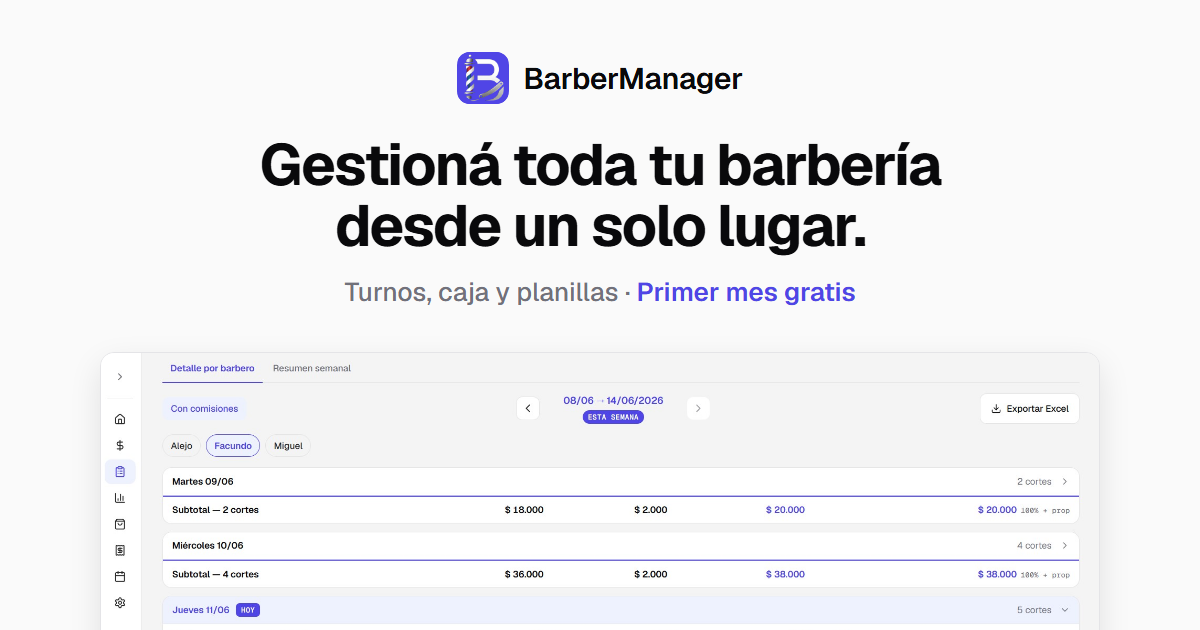
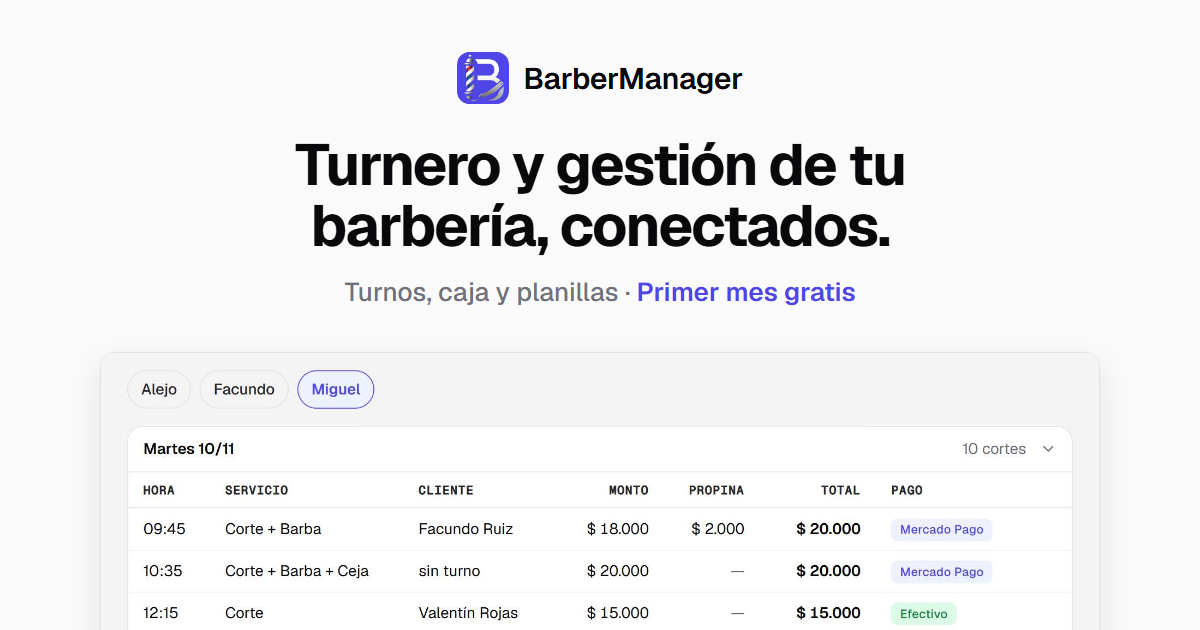
feat: capturas reales y "Probá reservar" en la landing (fase 2)
Fase 2 del plan docs/plan_landing_captacion.md.

- Hero: en celular (< 768 px) se muestra un recorte de la planilla de un
  barbero (hora, servicio, cliente y monto) que se lee a 375 px. Va con
  <picture> y <source>, así el navegador baja una sola imagen. En escritorio
  sigue la planilla completa, con la captura nueva. ScreenshotFrame suma las
  props imageMobile y loading.
- Turnero: botón "Probá reservar en una barbería de ejemplo", que abre el
  turnero de demo con ?origen=landing (queda en turno.origen_link para contar
  las reservas que salen de la landing). DEMO.turnero vive en config/landing.js
  y también va en el llms.txt.
- Sistema de gestión: la captura real del Balance del mes, con datos de prueba
  del tenant demo, reemplaza a las tres métricas con números inventados. Se
  borra MetricCard.
- Capturas de la fase 0, sacadas del panel de demo a densidad 2: planilla de
  escritorio, recorte para celular y balance.
- og-image regenerada con la captura nueva y el titular corto ("Turnero y
  gestión de tu barbería, conectados.").

Lighthouse en celular: el LCP baja de 3,5 s (producción) a 1,6 s. El CLS de
0,058 viene del titular de la fase 1 y está anotado en el plan (§8).

diff --git a/frontend-landing/src/components/landing/ScreenshotFrame.jsx b/frontend-landing/src/components/landing/ScreenshotFrame.jsx
@@ -80,6 +80,57 @@ function Placeholder({ label }) {
   );
 }
 
+// Corte celular/escritorio, el mismo de las clases om- de index.css (768 px).
+// Va en el atributo media del <source>: lo resuelve el navegador, no el render.
+const MEDIA_CELULAR = '(max-width: 767px)';
+
+/**
+ * Captura
+ * La imagen de la captura. Con imageMobile arma un <picture>: el navegador
+ * elige la versión según el ancho y baja una sola. Sin imageMobile, un <img>.
+ * @param {string} props.image - URL de la captura de escritorio
+ * @param {number} [props.width] - Ancho real del archivo de escritorio en px
+ * @param {number} [props.height] - Alto real del archivo de escritorio en px
+ * @param {{src: string, width: number, height: number}} [props.imageMobile] -
+ *   Versión para celular (< 768 px), con sus medidas reales
+ * @param {boolean} props.priority - Descarga con prioridad alta (fetchpriority)
+ * @param {'lazy'|'eager'} [props.loading] - Carga diferida nativa del <img>
+ * @param {string} props.alt - Texto alternativo (vale para las dos versiones)
+ * @returns {JSX.Element}
+ */
+function Captura({ image, width, height, imageMobile, priority, loading, alt }) {
+  // height: 'auto' es obligatorio: con el atributo height solo, la imagen
+  // quedaría con alto fijo. Así el navegador usa width/height como
+  // proporción y reserva el lugar justo.
+  const img = (
+    <img
+      src={image}
+      alt={alt}
+      width={width}
+      height={height}
+      fetchPriority={priority ? 'high' : undefined}
+      loading={loading}
+      style={{ display: 'block', width: '100%', height: 'auto' }}
+    />
+  );
+  if (!imageMobile) return img;
+
+  // El width/height del <source> reserva la proporción de la versión celular
+  // (sin ellos, el lugar se reservaría con la proporción de la de escritorio y
+  // saltaría al cargar). El fetchpriority del <img> vale para la que se elija.
+  return (
+    <picture>
+      <source
+        media={MEDIA_CELULAR}
+        srcSet={imageMobile.src}
+        width={imageMobile.width}
+        height={imageMobile.height}
+      />
+      {img}
+    </picture>
+  );
+}
+
 /**
  * ScreenshotFrame
  * Marco que contiene una captura del producto (o un placeholder).
@@ -87,8 +138,12 @@ function Placeholder({ label }) {
  * @param {number} [props.width] - Ancho real del archivo en px. Junto con height,
  *   el navegador reserva el espacio antes de que cargue (sin salto de contenido)
  * @param {number} [props.height] - Alto real del archivo en px
+ * @param {{src: string, width: number, height: number}} [props.imageMobile] -
+ *   Versión para celular (< 768 px). Si viene, se baja solo la que corresponde
  * @param {boolean} [props.priority=false] - Imagen principal de la página (Hero):
  *   se descarga con prioridad alta. Solo una por página
+ * @param {'lazy'|'eager'} [props.loading] - 'lazy' para capturas lejos del
+ *   primer pantallazo: no se bajan hasta que el usuario se acerca
  * @param {string} [props.alt=''] - Texto alternativo de la imagen
  * @param {ReactNode} [props.children] - Contenido alternativo si no hay image
  * @param {boolean} [props.chrome=false] - Muestra la barra tipo navegador
@@ -101,7 +156,9 @@ function ScreenshotFrame({
   image,
   width,
   height,
+  imageMobile,
   priority = false,
+  loading,
   alt = '',
   children,
   chrome = false,
@@ -122,16 +179,14 @@ function ScreenshotFrame({
     >
       {chrome && <ChromeBar label={label} />}
       {image ? (
-        // height: 'auto' es obligatorio: con el atributo height solo, la imagen
-        // quedaría con alto fijo. Así el navegador usa width/height como
-        // proporción y reserva el lugar justo.
-        <img
-          src={image}
-          alt={alt}
+        <Captura
+          image={image}
           width={width}
           height={height}
-          fetchPriority={priority ? 'high' : undefined}
-          style={{ display: 'block', width: '100%', height: 'auto' }}
+          imageMobile={imageMobile}
+          priority={priority}
+          loading={loading}
+          alt={alt}
         />
       ) : (
         children ?? <Placeholder label={placeholderLabel} />

diff --git a/frontend-landing/src/components/sections/SistemaGestion.jsx b/frontend-landing/src/components/sections/SistemaGestion.jsx
@@ -1,20 +1,19 @@
 // /frontend-landing/src/components/sections/SistemaGestion.jsx
 // Sección más importante: el panel de gestión del dueño. Video protagonista
 // arriba + las 10 funcionalidades agrupadas en 3 bloques (para que se lea
-// ordenado y no como una lista plana) + las métricas del mes (fusionadas desde
-// la antigua sección "Métricas"), para cerrar con el payoff: no solo ordenás el
-// día, también ves si estás creciendo.
+// ordenado y no como una lista plana) + la captura real del Balance del mes,
+// para cerrar con el payoff: no solo ordenás el día, también ves si estás
+// creciendo.
 
 import { ClipboardList, Store, BarChart3 } from 'lucide-react';
 import { theme } from '../../theme/tokens.js';
-import { VIDEOS } from '../../config/landing.js';
-import { fmtPesos } from '../../utils/formato.js';
+import { VIDEOS, CAPTURAS } from '../../config/landing.js';
 import Section from '../landing/Section.jsx';
 import Reveal from '../landing/Reveal.jsx';
 import Card from '../ui/Card.jsx';
 import FeatureList from '../landing/FeatureList.jsx';
 import VideoEmbed from '../landing/VideoEmbed.jsx';
-import MetricCard from '../landing/MetricCard.jsx';
+import ScreenshotFrame from '../landing/ScreenshotFrame.jsx';
 import NotaAlPie from '../landing/NotaAlPie.jsx';
 
 // Las 10 funcionalidades agrupadas en 3 bloques temáticos.
@@ -34,14 +33,6 @@ const GRUPOS = [
     titulo: 'Resultados',
     items: ['Planillas semanales', 'Planillas mensuales'],
   },
-];
-
-// Métricas del mes (fusionadas desde la antigua sección "Métricas"). Datos
-// ilustrativos: muestran la funcionalidad, no son de un tenant real.
-const METRICAS = [
-  { label: 'Ingresos del mes', value: fmtPesos(842000), delta: '+18%', deltaLabel: 'vs. el mes anterior', data: [42, 50, 47, 58, 70, 86] },
-  { label: 'Clientes atendidos', value: '318', delta: '+12%', deltaLabel: 'vs. el mes anterior', data: [60, 64, 62, 70, 78, 84] },
-  { label: 'Crecimiento', value: '+31%', deltaLabel: 'en los últimos 3 meses', data: [48, 55, 58, 66, 75, 88] },
 ];
 
 /**
@@ -126,7 +117,7 @@ function SistemaGestion() {
         ))}
       </div>
 
-      {/* Cierre con el payoff: las métricas del mes. No es una sección aparte
+      {/* Cierre con el payoff: el balance del mes. No es una sección aparte
           (fusionada acá) para no alargar la página. */}
       <Reveal
         style={{
@@ -165,19 +156,21 @@ function SistemaGestion() {
         </p>
       </Reveal>
 
-      <div style={{ display: 'flex', flexWrap: 'wrap', gap: 16, justifyContent: 'center' }}>
-        {METRICAS.map((m, i) => (
-          <Reveal
-            key={m.label}
-            delay={i * 80}
-            style={{ flex: '1 1 240px', maxWidth: 340, display: 'flex' }}
-          >
-            <MetricCard {...m} />
-          </Reveal>
-        ))}
-      </div>
+      {/* Captura real del Balance (tenant demo). Mismo ancho que el video de
+          arriba. Lazy: está lejos del primer pantallazo y no compite con la
+          imagen del Hero. */}
+      <Reveal style={{ maxWidth: 920, marginInline: 'auto' }}>
+        <ScreenshotFrame
+          image={CAPTURAS.balance?.src}
+          width={CAPTURAS.balance?.width}
+          height={CAPTURAS.balance?.height}
+          loading="lazy"
+          alt="Balance de noviembre en BarberManager: ingresos, egresos y ganancia del mes, y los ingresos y la comisión de cada barbero"
+          placeholderLabel="Captura del Balance"
+        />
+      </Reveal>
 
-      <NotaAlPie>Números de ejemplo: muestran cómo se ve, no son de una barbería real.</NotaAlPie>
+      <NotaAlPie>Captura del sistema con datos de prueba.</NotaAlPie>
     </Section>
   );
 }

diff --git a/frontend-landing/src/components/sections/Turnero.jsx b/frontend-landing/src/components/sections/Turnero.jsx
@@ -1,11 +1,14 @@
 // /frontend-landing/src/components/sections/Turnero.jsx
 // Sección Turnero: cómo los clientes reservan solos. Foco en la facilidad de
-// uso, sin explicar tecnología. Texto + video (lado video a la derecha). Sin CTA
-// inline: interrumpía el demo. El contacto vive en Hero, Plan y el cierre.
+// uso, sin explicar tecnología. Texto + video (lado video a la derecha).
+// El CTA de contacto no va acá (interrumpía el demo): vive en Hero, Plan y el
+// cierre. El botón de esta sección es otra cosa: una prueba del producto, que
+// abre el turnero real de la barbería de ejemplo (DEMO.turnero).
 
-import { VIDEOS } from '../../config/landing.js';
+import { VIDEOS, DEMO } from '../../config/landing.js';
 import SplitFeature from '../landing/SplitFeature.jsx';
 import VideoEmbed from '../landing/VideoEmbed.jsx';
+import Button from '../ui/Button.jsx';
 
 const BENEFICIOS = [
   'Reserva 100% online, a cualquier hora',
@@ -29,6 +32,11 @@ function Turnero() {
       title="Tus clientes reservan solos, sin que muevas un dedo."
       subtitle="Un link que compartís en Instagram o WhatsApp. El cliente elige, confirma y listo. Vos dejás de hacer de secretaria."
       items={BENEFICIOS}
+      cta={
+        <Button href={DEMO.turnero} external variant="secondary" full={false}>
+          Probá reservar en una barbería de ejemplo
+        </Button>
+      }
       media={<VideoEmbed {...VIDEOS.turnero} title="Reservar un turno online" style={{ maxWidth: 320, marginInline: 'auto' }} />}
     />
   );

diff --git a/frontend-landing/src/config/landing.js b/frontend-landing/src/config/landing.js
@@ -58,8 +58,24 @@ export const FLAGS = {
  * Mientras el valor sea null, la UI muestra un placeholder neutro (no rompe).
  */
 export const CAPTURAS = {
-  // Hero — pantalla de Planillas (reemplaza el registro en papel).
-  planillas: { src: '/screenshots/seccionPlanillas.jpg', width: 1902, height: 862 },
+  // Hero en escritorio — pantalla de Planillas: detalle por barbero con un día
+  // desplegado (reemplaza el registro en papel).
+  planillas: { src: '/screenshots/seccionPlanillas.jpg', width: 1829, height: 1188 },
+  // Hero en celular (< 768 px) — el mismo día, solo hora, servicio, cliente y
+  // monto, para que se lea a 375 px. El navegador baja una sola de las dos.
+  planillasMobile: { src: '/screenshots/planillasMobile.jpg', width: 1020, height: 1007 },
+  // Sistema de gestión — Balance del mes (datos de prueba del tenant demo).
+  balance: { src: '/screenshots/balance.jpg', width: 1861, height: 1187 },
+};
+
+/**
+ * DEMO — links al producto real del tenant de ejemplo (demo).
+ * `turnero`: el turnero público de demo, para que el dueño pruebe reservar sin
+ * escribirle a nadie. El ?origen=landing queda guardado en turno.origen_link y
+ * permite contar cuántas reservas salen de la landing.
+ */
+export const DEMO = {
+  turnero: 'https://demo.barbermanager.app/turnos?origen=landing',
 };
 
 /**

diff --git a/frontend-landing/src/components/sections/Hero.jsx b/frontend-landing/src/components/sections/Hero.jsx
@@ -144,8 +144,9 @@ function Hero() {
             image={CAPTURAS.planillas?.src}
             width={CAPTURAS.planillas?.width}
             height={CAPTURAS.planillas?.height}
+            imageMobile={CAPTURAS.planillasMobile}
             priority
-            alt="Planilla semanal de BarberManager con el detalle de cada barbero"
+            alt="Planilla semanal de BarberManager: los cortes de un barbero en el día, con hora, servicio, cliente y monto"
             placeholderLabel="Captura de Planillas"
           />
           <p
@@ -157,9 +158,12 @@ function Hero() {
               textTransform: 'uppercase',
               letterSpacing: '0.06em',
               color: theme.muted,
+              // En celular corta en dos renglones parejos, sin "barbero" solo
+              // en el segundo.
+              textWrap: 'balance',
             }}
           >
-            Planilla semanal — sin cuaderno ni Excel
+            Planilla semanal con el detalle de cada barbero
           </p>
         </div>
       </Container>

diff --git a/frontend-landing/src/seo/llmsTxt.js b/frontend-landing/src/seo/llmsTxt.js
@@ -5,7 +5,7 @@
 // fuentes que la UI (D9). Solo lo importa entry-server.jsx: no llega al bundle
 // del cliente.
 
-import { MARCA, CONTACTO, PRECIO } from '../config/landing.js';
+import { MARCA, CONTACTO, PRECIO, DEMO } from '../config/landing.js';
 import { FAQS } from '../content/faq.js';
 import { INCLUYE } from '../content/plan.js';
 import { ALTERNATIVAS } from '../content/alternativas.js';
@@ -40,6 +40,8 @@ function lineasContacto() {
   if (CONTACTO.whatsapp) lineas.push(`WhatsApp: [${CONTACTO.whatsappDisplay}](${linkWhatsApp()})`);
   if (CONTACTO.email) lineas.push(`Email: [${CONTACTO.email}](mailto:${CONTACTO.email})`);
   lineas.push(`Sitio: ${URL_SITIO}`);
+  // Para que quien llega desde una IA pruebe el producto sin escribirle a nadie.
+  if (DEMO.turnero) lineas.push(`Turnero de una barbería de ejemplo, para probar cómo reserva un cliente: ${DEMO.turnero}`);
   return lineas;
 }
 

diff --git a/frontend-landing/scripts/og-image.html b/frontend-landing/scripts/og-image.html
@@ -115,7 +115,10 @@
         <span class="marca-nombre">BarberManager</span>
       </div>
 
-      <h1 class="titulo">Gestioná toda tu barbería desde un solo lugar.</h1>
+      <!-- Versión corta del <h1> de la landing: el completo ("Turnero online y
+           gestión de tu barbería, conectados en un solo sistema.") ocupa tres
+           renglones a 58 px y tapa la bajada. -->
+      <h1 class="titulo">Turnero y gestión de tu barbería, conectados.</h1>
 
       <p class="bajada">Turnos, caja y planillas · <strong>Primer mes gratis</strong></p>
 

diff --git a/frontend-landing/src/components/landing/NotaAlPie.jsx b/frontend-landing/src/components/landing/NotaAlPie.jsx
@@ -1,6 +1,6 @@
 // /frontend-landing/src/components/landing/NotaAlPie.jsx
 // Línea de texto chico y centrado debajo de un bloque: aclaraciones como la
-// fuente de un dato, "números de ejemplo" o la línea "Sin instalaciones ·
+// fuente de un dato, que una captura usa datos de prueba o la línea "Sin instalaciones ·
 // Cancelás cuando quieras" del Plan.
 // 14 px en `muted`: es texto que se lee, así que respeta el mínimo de 14 px del
 // sistema y el contraste AA (5,05:1 sobre `bg`, 5,28:1 sobre blanco). `mutedSoft`

diff --git a/docs/plan_landing_captacion.md b/docs/plan_landing_captacion.md
@@ -5,8 +5,8 @@
 > "a confirmar". Los archivos y líneas de §4 son del 2026-11-17: confirmalos al escribir cada prompt. Aprobar el
 > plan no es arrancar: el orquestador confirma con el usuario antes de cada fase.
 >
-> **Estado (2026-11-17):** fase 0 hecha (demo con datos de prueba y capturas en `public/screenshots/`, sin
-> commitear: van con la fase 2) y fase 1 commiteada. Sigue la fase 2. Branch desde `main` (`bccc2d3`),
+> **Estado (2026-11-17):** fases 0, 1 y 2 hechas y commiteadas (las capturas van en el commit de la fase 2).
+> Sigue la fase 3. Branch desde `main` (`bccc2d3`),
 > independiente de `feature/mejoras-operativas`: no comparten archivos.
 
 ## 1. Contexto
@@ -365,6 +365,13 @@ Anotado por el orquestador el 2026-11-17:
   corrige en la fase 3.
 - **FAQ "¿Cómo empiezo?"** (`content/faq.js`) dice "Nos escribís por WhatsApp o email". Es coherente con el
   email del footer; queda como está salvo que el usuario quiera empujar solo a WhatsApp.
+- **CLS de 0,058 en el hero, desde la fase 1** (medido por el ejecutor de la fase 2 con Lighthouse en celular;
+  producción da 0). Geist entra por `@import` en `index.css:10` con `display=swap`, y el `<h1>` nuevo corta en
+  otros renglones con la fuente del sistema que con Geist, así que empuja el subtítulo al llegar la fuente. Está
+  debajo de 0,1 (el límite "bueno"). Arreglos posibles, a medir: `<link>` + `preconnect` en `index.html`, o una
+  fuente de reemplazo con `size-adjust`. El LCP mejoró de 3,5 s a 1,6 s.
+- **Portada del video del turnero en celular** (la caja gris): no es un bug. Es el fondo del marco mientras baja
+  la portada, que tiene `loading="lazy"` (`VideoEmbed.jsx:76`); solo se ve si se salta directo a la sección.
 - **`estado_actual.md:311`** dice que el teléfono se carga "desde Gestión → Negocio", pero esa pestaña no tiene
   ese campo: el teléfono y la dirección del tenant se cambian solo por SQL. Se corrige en la fase 3.
 

diff --git a/docs/ruta_proyecto.md b/docs/ruta_proyecto.md
@@ -547,7 +547,6 @@ frontend-landing/
     |   |   |-- FreeMonthBadge.jsx
     |   |   |-- LandingFooter.jsx
     |   |   |-- LandingNav.jsx
-    |   |   |-- MetricCard.jsx
     |   |   |-- MobileCtaBar.jsx
     |   |   |-- NotaAlPie.jsx
     |   |   |-- PainCard.jsx
